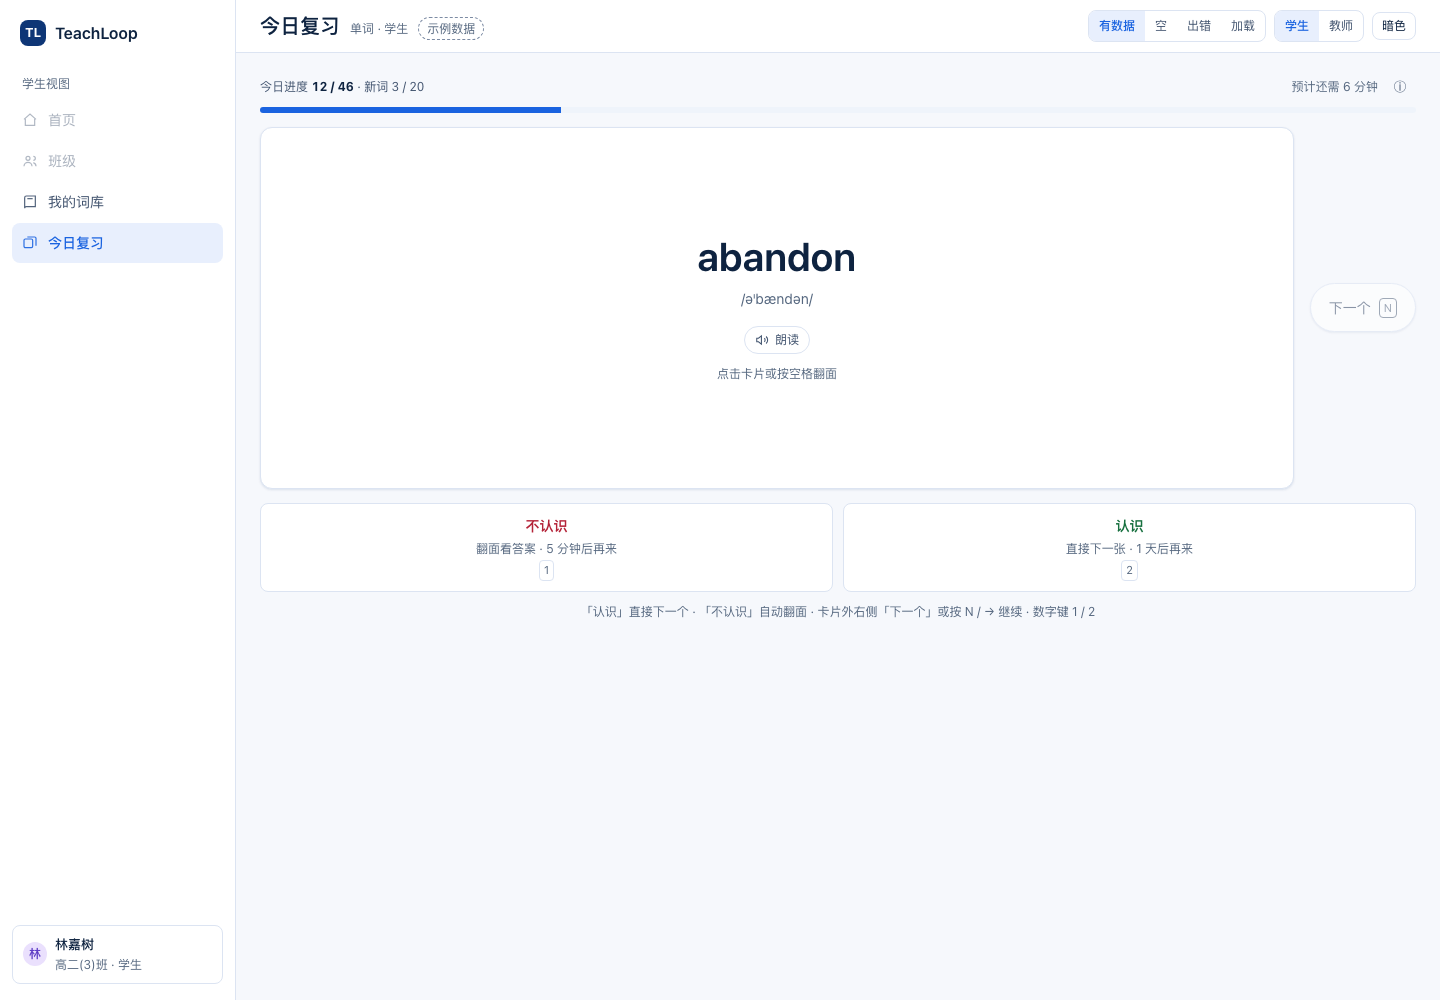
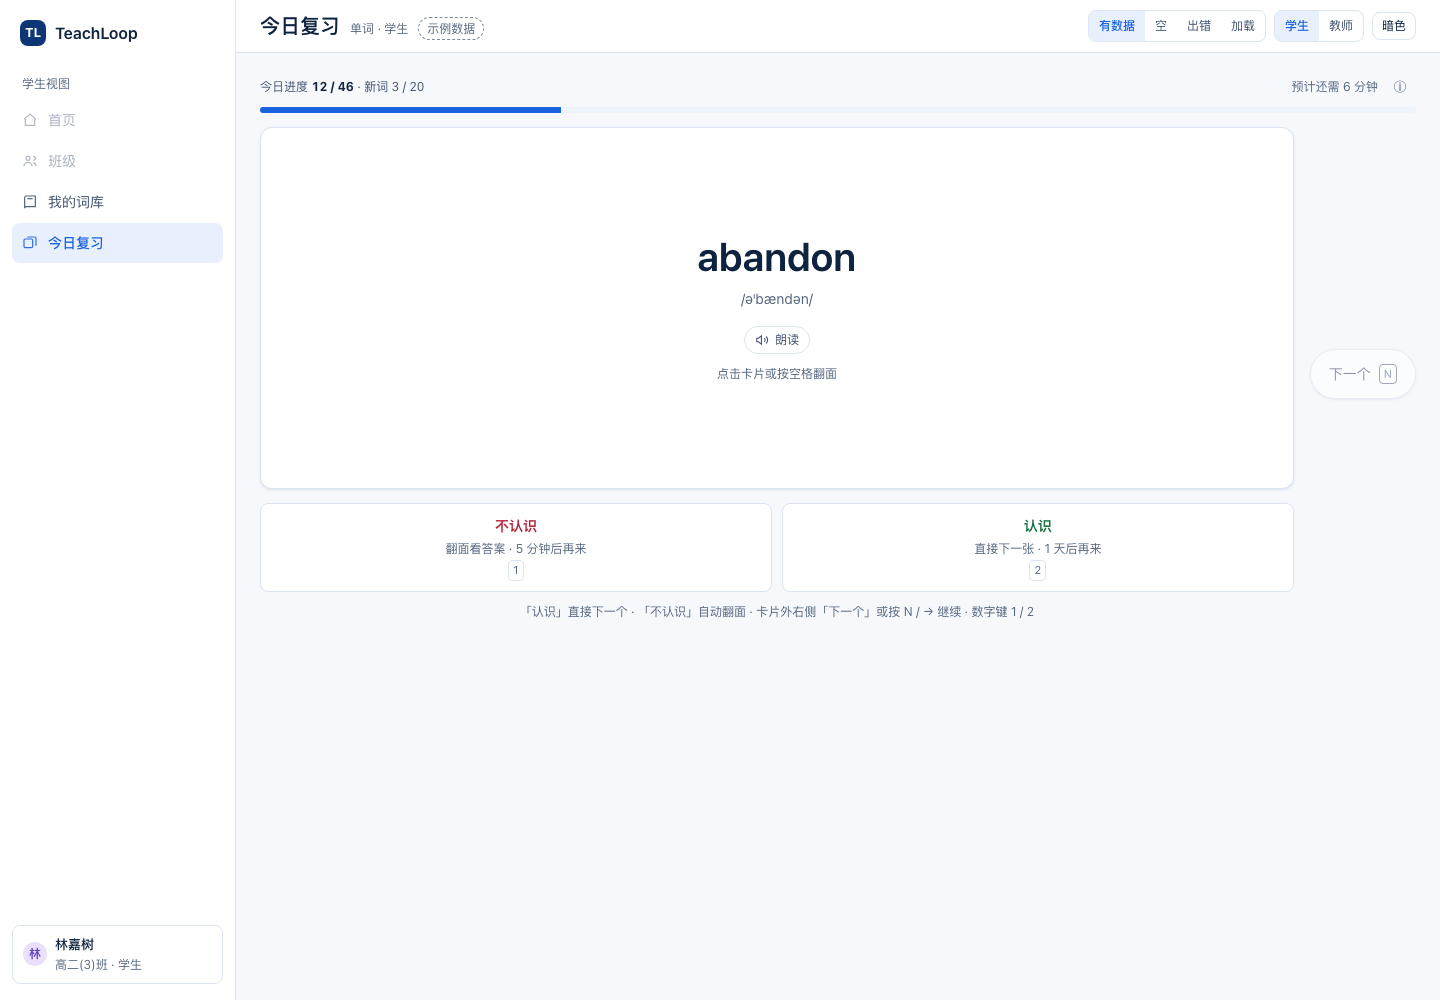
docs(vocab): 复习页按钮对齐、发词页去掉年级分组、词集编辑页改单栏
按 2026-10-23 第八轮反馈：

- 复习页：评分按钮与提示包进与卡片同宽的列，卡片外的「下一个」仍在右侧；两者边缘对齐
- 发词页：系统没有「年级」层级，去掉分组，改为平铺班级 chips + 搜索 + 全选/清空
- 词集编辑页：删除右侧「这个词集的去向」卡片，改单栏；「导入单词 / 加词」移到表单下方，
  右侧加「取消 / 保存」，取消返回词集列表
- 清理不再使用的 pickGrade 与分组变量

spec：AC-49.3/49.4、AC-50.1 同步；新增 §23 记录本轮反馈。

Changed region(s): [[0.375, 0.589, 0.75, 0.62], [0.3125, 0.496, 0.4375, 0.558], [0.6875, 0.527, 0.8125, 0.558]]

diff --git a/docs/mock/vocab-2026-10-23/index.html b/docs/mock/vocab-2026-10-23/index.html
@@ -236,7 +236,7 @@
   .cp-group + .cp-group { border-top:1px dashed var(--line-2); margin-top:10px; padding-top:10px; }
 
   .review-row { display:flex; align-items:center; gap:16px; }
-  .review-row > .card { flex:1; min-width:0; }
+  .review-main { flex:1; min-width:0; }
   .next-outside { flex:0 0 auto; display:inline-flex; align-items:center; gap:8px;
                   padding:12px 18px; border-radius:999px; border:1px solid var(--line);
                   background:var(--panel); color:var(--muted); font-size:14px;
@@ -840,12 +840,9 @@ function screenReview(){
         <div class="sm muted-2" style="margin-top:6px">「认识」= 良好（间隔 × 易度），「不认识」= 忘记（5 分钟后重来）；连续 4 次认识且间隔 ≥45 天自动标为已掌握。参数都在 application.yml 里。</div>
       </div>`:''}
       <div class="review-row">
-        <div class="card">${S.flipped?back:front}</div>
-        <button class="next-outside ${(S.flipped||S.rated==='again')?'on':''}" onclick="nextCard()" title="下一个（N / →）">
-          下一个 <span class="kbd">N</span>
-        </button>
-      </div>
-      <div class="rates" style="grid-template-columns:repeat(2,1fr)">
+        <div class="review-main">
+          <div class="card">${S.flipped?back:front}</div>
+          <div class="rates" style="grid-template-columns:repeat(2,1fr)">
         <button class="rate again" ${S.rated?'disabled style="opacity:.45"':''} onclick="rate('again')">
           <span class="n">不认识</span><span class="d">${S.rated==='again'?'已记为不认识':'翻面看答案 · 5 分钟后再来'}</span><span class="kbd">1</span></button>
         <button class="rate good" ${S.rated?'disabled style="opacity:.45"':''} onclick="rate('good')">
@@ -854,11 +851,16 @@ function screenReview(){
       ${S.rated==='again'?`<div class="card-pad sm" style="margin-top:10px;text-align:center;color:var(--muted)">
         已记为「不认识」，答案已展开；看完点下面「下一个 →」继续</div>`:''}
 
-      <div class="hint">「认识」直接下一个 · 「不认识」自动翻面 · 卡片外右侧「下一个」或按 N / → 继续 · 数字键 1 / 2${S.free?" · S 移出复习":""}</div>
-      ${S.free?`<div class="row" style="justify-content:center;margin-top:8px">
-        <button class="btn" onclick="markKnown(currentWord().w);toast('已移出复习')">移出复习（S）</button>
-        <button class="btn" onclick="endFree()">结束复习</button>
-      </div>`:''}
+          <div class="hint">「认识」直接下一个 · 「不认识」自动翻面 · 卡片外右侧「下一个」或按 N / → 继续 · 数字键 1 / 2${S.free?" · S 移出复习":""}</div>
+          ${S.free?`<div class="row" style="justify-content:center;margin-top:8px">
+            <button class="btn" onclick="markKnown(currentWord().w);toast('已移出复习')">移出复习（S）</button>
+            <button class="btn" onclick="endFree()">结束复习</button>
+          </div>`:''}
+        </div>
+        <button class="next-outside ${(S.flipped||S.rated==='again')?'on':''}" onclick="nextCard()" title="下一个（N / →）">
+          下一个 <span class="kbd">N</span>
+        </button>
+      </div>
     </div>
 
   </div>`;
@@ -1075,15 +1077,7 @@ function screenWordsetEdit(){
                     : (SETS.find(s=>s.id===S.setEdit) || SETS[0]);
   const words = WORDS.slice(0,8);
   return `
-  <div class="toolbar">
-    <button class="btn" onclick="S.screen='wordset';render()">← 返回词集</button>
-    <div style="flex:1"></div>
-    <button class="btn" onclick="toast('打开导入：CSV / MD / TXT')">${ICONS.upload} 导入单词</button>
-    <button class="btn" onclick="toast('打开粘贴加词框')">${ICONS.plus} 加词</button>
-    <button class="btn primary" onclick="toast('已保存');S.screen='wordset';render()">保存</button>
-  </div>
-  <div class="two-col" style="grid-template-columns:minmax(0,1fr) 320px">
-    <div class="card">
+  <div class="card" style="max-width:920px">
       <div class="card-pad" style="border-bottom:1px solid var(--line-2)">
         <div style="font-size:16px;font-weight:600">${isNew?'新建词集':'编辑：'+set.name}</div>
         <div class="sm muted">${isNew?'填名称、选语言，然后用右上角的「导入单词」或「加词」往里放词':'改名称与说明不影响已发出的布置（快照）'}</div>
@@ -1092,10 +1086,22 @@ function screenWordsetEdit(){
         <div class="field"><label>名称</label><input class="input" value="${set.name}" placeholder="如 Unit 5 生词"></div>
         <div class="field"><label>学习语言</label><select class="input"><option>英语</option><option>中文</option><option>西班牙语</option></select></div>
         <div class="field" style="grid-column:1/-1"><label>说明（可选）</label><input class="input" placeholder="给学生的说明"></div>
+        <div class="field" style="grid-column:1/-1">
+          <div class="row" style="justify-content:space-between">
+            <div class="row">
+              <button class="btn" onclick="toast('打开导入：CSV / MD / TXT')">${ICONS.upload} 导入单词</button>
+              <button class="btn" onclick="toast('打开粘贴加词框')">${ICONS.plus} 加词</button>
+            </div>
+            <div class="row">
+              <button class="btn" onclick="S.screen='wordset';render()">取消</button>
+              <button class="btn primary" onclick="toast('已保存');S.screen='wordset';render()">保存</button>
+            </div>
+          </div>
+        </div>
       </div>
       ${set.n===0?`<div class="state" style="padding:36px 20px">
         <div class="ic">${ICONS.inbox}</div><h3>这个词集还没有词</h3>
-        <p>用右上角的「导入单词」上传 CSV/MD/TXT，或「加词」把词粘贴进来。入库后内容会自动生成。</p>
+        <p>用上面的「导入单词」上传 CSV/MD/TXT，或「加词」把词粘贴进来。入库后内容会自动生成。</p>
       </div>`:`
       <table>
         <thead><tr><th style="width:60px">#</th><th>单词</th><th>释义</th><th style="width:90px">操作</th></tr></thead>
@@ -1107,17 +1113,6 @@ function screenWordsetEdit(){
         </tr>`).join('')}</tbody>
       </table>
       <div class="card-pad sm muted" style="border-top:1px solid var(--line-2)">前 8 条（共 ${set.n}）· 顺序即学生首次预习顺序</div>`}
-    </div>
-    <aside>
-      <div class="card card-pad">
-        <div class="sm muted" style="margin-bottom:6px">这个词集的去向</div>
-        <div class="between"><span>状态</span>
-          <button class="btn sm" onclick="toast('${set.active?'已停用：不能再发词，已发出的布置不受影响':'已启用'}')">${set.active?'启用中 · 点此停用':'已停用 · 点此启用'}</button></div>
-        <div class="between"><span>已发给</span><span>${set.classes.length?set.classes.length+' 个班':'还没发'}</span></div>
-        <div class="between"><span>最近更新</span><span class="mono sm">${set.updated||'—'}</span></div>
-        <div class="sm muted-2" style="margin-top:8px">停用后不能再发词；已发出的布置不受影响。</div>
-      </div>
-    </aside>
   </div>`;
 }
 
@@ -1126,7 +1121,6 @@ function screenAssign(){
   const picked = CLASSES.filter(c=>S.picked.includes(c.id));
   const taught = CLASSES.filter(c=>c.taught);
   const q = S.classQ.trim();
-  const groups = ['高一','高二'];
   const chip = c => `<button class="class-chip ${S.picked.includes(c.id)?'on':''}" onclick="toggleClass('${c.id}')">
       ${S.picked.includes(c.id)?'✓ ':''}${c.name} · ${c.n} 人</button>`;
   return `
@@ -1162,17 +1156,11 @@ function screenAssign(){
             <button class="btn sm" onclick="S.picked=[];render()">清空</button>
           </div>
           <div class="class-panel">
-            ${groups.map(g=>{
-              const list = taught.filter(c=>c.grade===g && (!q || c.name.includes(q)));
-              if (!list.length) return '';
-              return `<div class="cp-group">
-                <div class="between" style="margin-bottom:6px">
-                  <b class="sm">${g} · ${list.length} 个班</b>
-                  <button class="btn ghost sm" onclick="pickGrade('${g}')">本年级全选</button>
-                </div>
-                <div class="class-pick">${list.map(chip).join('')}</div>
-              </div>`;
-            }).join('') || '<div class="sm muted">没有匹配的班级</div>'}
+            ${(() => {
+              const list = taught.filter(c => !q || c.name.includes(q));
+              if (!list.length) return '<div class="sm muted">没有匹配的班级</div>';
+              return `<div class="class-pick">${list.map(chip).join('')}</div>`;
+            })()}
           </div>
           <div class="sm muted" style="margin-top:6px">已选 <b>${picked.length}</b> 个班 · 预计 ${picked.reduce((a,c)=>a+c.n,0)} 名学生收到待办</div>
         </div>
@@ -1195,7 +1183,6 @@ function screenAssign(){
   </div>`;
 }
 function pickAll(){ S.picked = CLASSES.filter(c=>c.taught).map(c=>c.id); render(); }
-function pickGrade(g){ const ids = CLASSES.filter(c=>c.taught && c.grade===g).map(c=>c.id);
   S.picked = [...new Set([...S.picked, ...ids])]; render(); }
 
 function toggleClass(id){ S.picked = S.picked.includes(id)?S.picked.filter(x=>x!==id):[...S.picked,id]; render(); }

diff --git a/specs/004-vocab/spec.md b/specs/004-vocab/spec.md
@@ -81,8 +81,8 @@
       列为：`名称 / 学习语言 / 词数 / 状态（启用·停用）/ 已发给几个班 / 更新时间 / 操作`。
 - [ ] AC-49.2 每行最左有复选框，表头有全选；选中后出现批量操作条：**启用 / 停用 / 删除**（二次确认，显示将影响 N 个词集）。
       「更新」在每行操作列，是单行动作（进入编辑页）。
-- [ ] AC-49.3 点词集名称或「更新」进入 **new / update 编辑页**：名称、学习语言、说明、状态、词条列表（可调顺序、可移除）。
-- [ ] AC-49.4 **「导入单词」与「加词」只在编辑页**，列表页不出现这两个按钮；新建后再往里放词。
+- [ ] AC-49.3 点词集名称或「更新」进入 **new / update 编辑页**，单栏布局：名称、学习语言、说明；表单下方一行是「导入单词 / 加词」，右侧是「取消 / 保存」（取消返回词集列表）；再往下是词条列表（可调顺序、可移除）。**编辑页不设右侧信息栏**（2026-10-23 用户要求去掉了「这个词集的去向」卡片）。
+- [ ] AC-49.4 **「导入单词」与「加词」只在编辑页的表单下方**，列表页不出现这两个按钮；新建后再往里放词。
 - [ ] AC-49.5 停用的词集不能再被发词，但仍能看到历史发词记录；已发出的布置不受影响。
 - [ ] AC-49.6 词集可复用：同一条词集能反复布置，不需要复制出新词集。
 - [ ] AC-49.7 词条顺序即学生首次预习时的呈现顺序。
@@ -94,8 +94,7 @@
 
 - [ ] AC-50.1 一次发词 = 选词集 + 选一个或多个**自己带的班** + 可选截止时间 + 可选说明。
   - **词集选择器是可输入搜索的下拉**（输入即过滤，候选显示词数与已发班级数）；只列启用状态的词集。
-  - **班级选择器是分组 chip 面板**：按年级分组、每个班显示人数、带搜索框、每组有「本年级全选」、顶部有「全选 / 清空」，
-    并实时显示「已选 N 个班 · 预计 M 名学生」。18 个班时面板内滚动（2026-10-23 用户选定此形态）。
+  - **班级选择器是平铺的 chip 面板**：每个班显示人数、带搜索框、顶部「全选 / 清空」，实时显示「已选 N 个班 · 预计 M 名学生」；18 个班时面板内滚动。**不按年级分组**——现有系统没有「年级」层级（2026-10-23 确认）。
   - 说明性内容（学生端会看到什么、发送后发生什么）**不占版面**，收进 ⓘ 气泡。
 - [ ] AC-50.2 发送时对词集内容做**快照**；之后修改词集会提示「已发出的 N 次布置不受影响」，学生端内容不变。
 - [ ] AC-50.3 同一词集对同一班重复发：学生已领的词不重复入库，只追加来源并更新截止时间。
@@ -578,3 +577,12 @@
 | 我的笔记 | **V1 不做**：字段、导入映射、详情展示、复习背面全部去掉（见 §9 非目标） |
 | 反馈按钮 | 从右侧卡片改为**单词右上角的小按钮**，与收藏/暂停同区；提交只带 word id |
 | 右侧栏 | 只保留「学习状态」一张小卡（状态/下次复习/易度/间隔） |
+
+
+## 23. 第八轮 mock 反馈（2026-10-23）
+
+| 反馈 | 处理 |
+| :--- | :--- |
+| 复习页两个评分按钮要和卡片对齐 | 评分按钮与提示包进卡片同宽的列，卡片右侧的「下一个」独立在列外 |
+| 系统里没有班级的「年级」层级 | 发词页去掉年级分组，改为平铺 chips + 搜索 + 全选/清空 |
+| 编辑页去掉「这个词集的去向」卡片 | 改为单栏；「导入单词 / 加词」移到表单下方，右侧加「取消 / 保存」，取消返回词集列表 |

diff --git a/docs/mock/vocab-2026-10-23/README.md b/docs/mock/vocab-2026-10-23/README.md
@@ -4,6 +4,12 @@
 单文件、无依赖、无构建：**双击 `index.html` 就能点**。
 
 
+## 第十三版（对齐、去掉年级分组、编辑页单栏）
+
+- 复习页：评分按钮与卡片同宽对齐；「下一个」仍在卡片外的右侧
+- 发词页：去掉年级分组（系统没有这个层级），改为平铺班级 chips + 搜索 + 全选/清空
+- 词集编辑页：去掉右侧「这个词集的去向」卡片，改单栏；「导入单词 / 加词」移到表单下方，右侧「取消 / 保存」
+
 ## 第十二版（「下一个」挪到卡片外）
 
 - 「下一个」从卡片内部绝对定位改为**卡片外部右侧**的独立按钮，不遮住卡片正文
